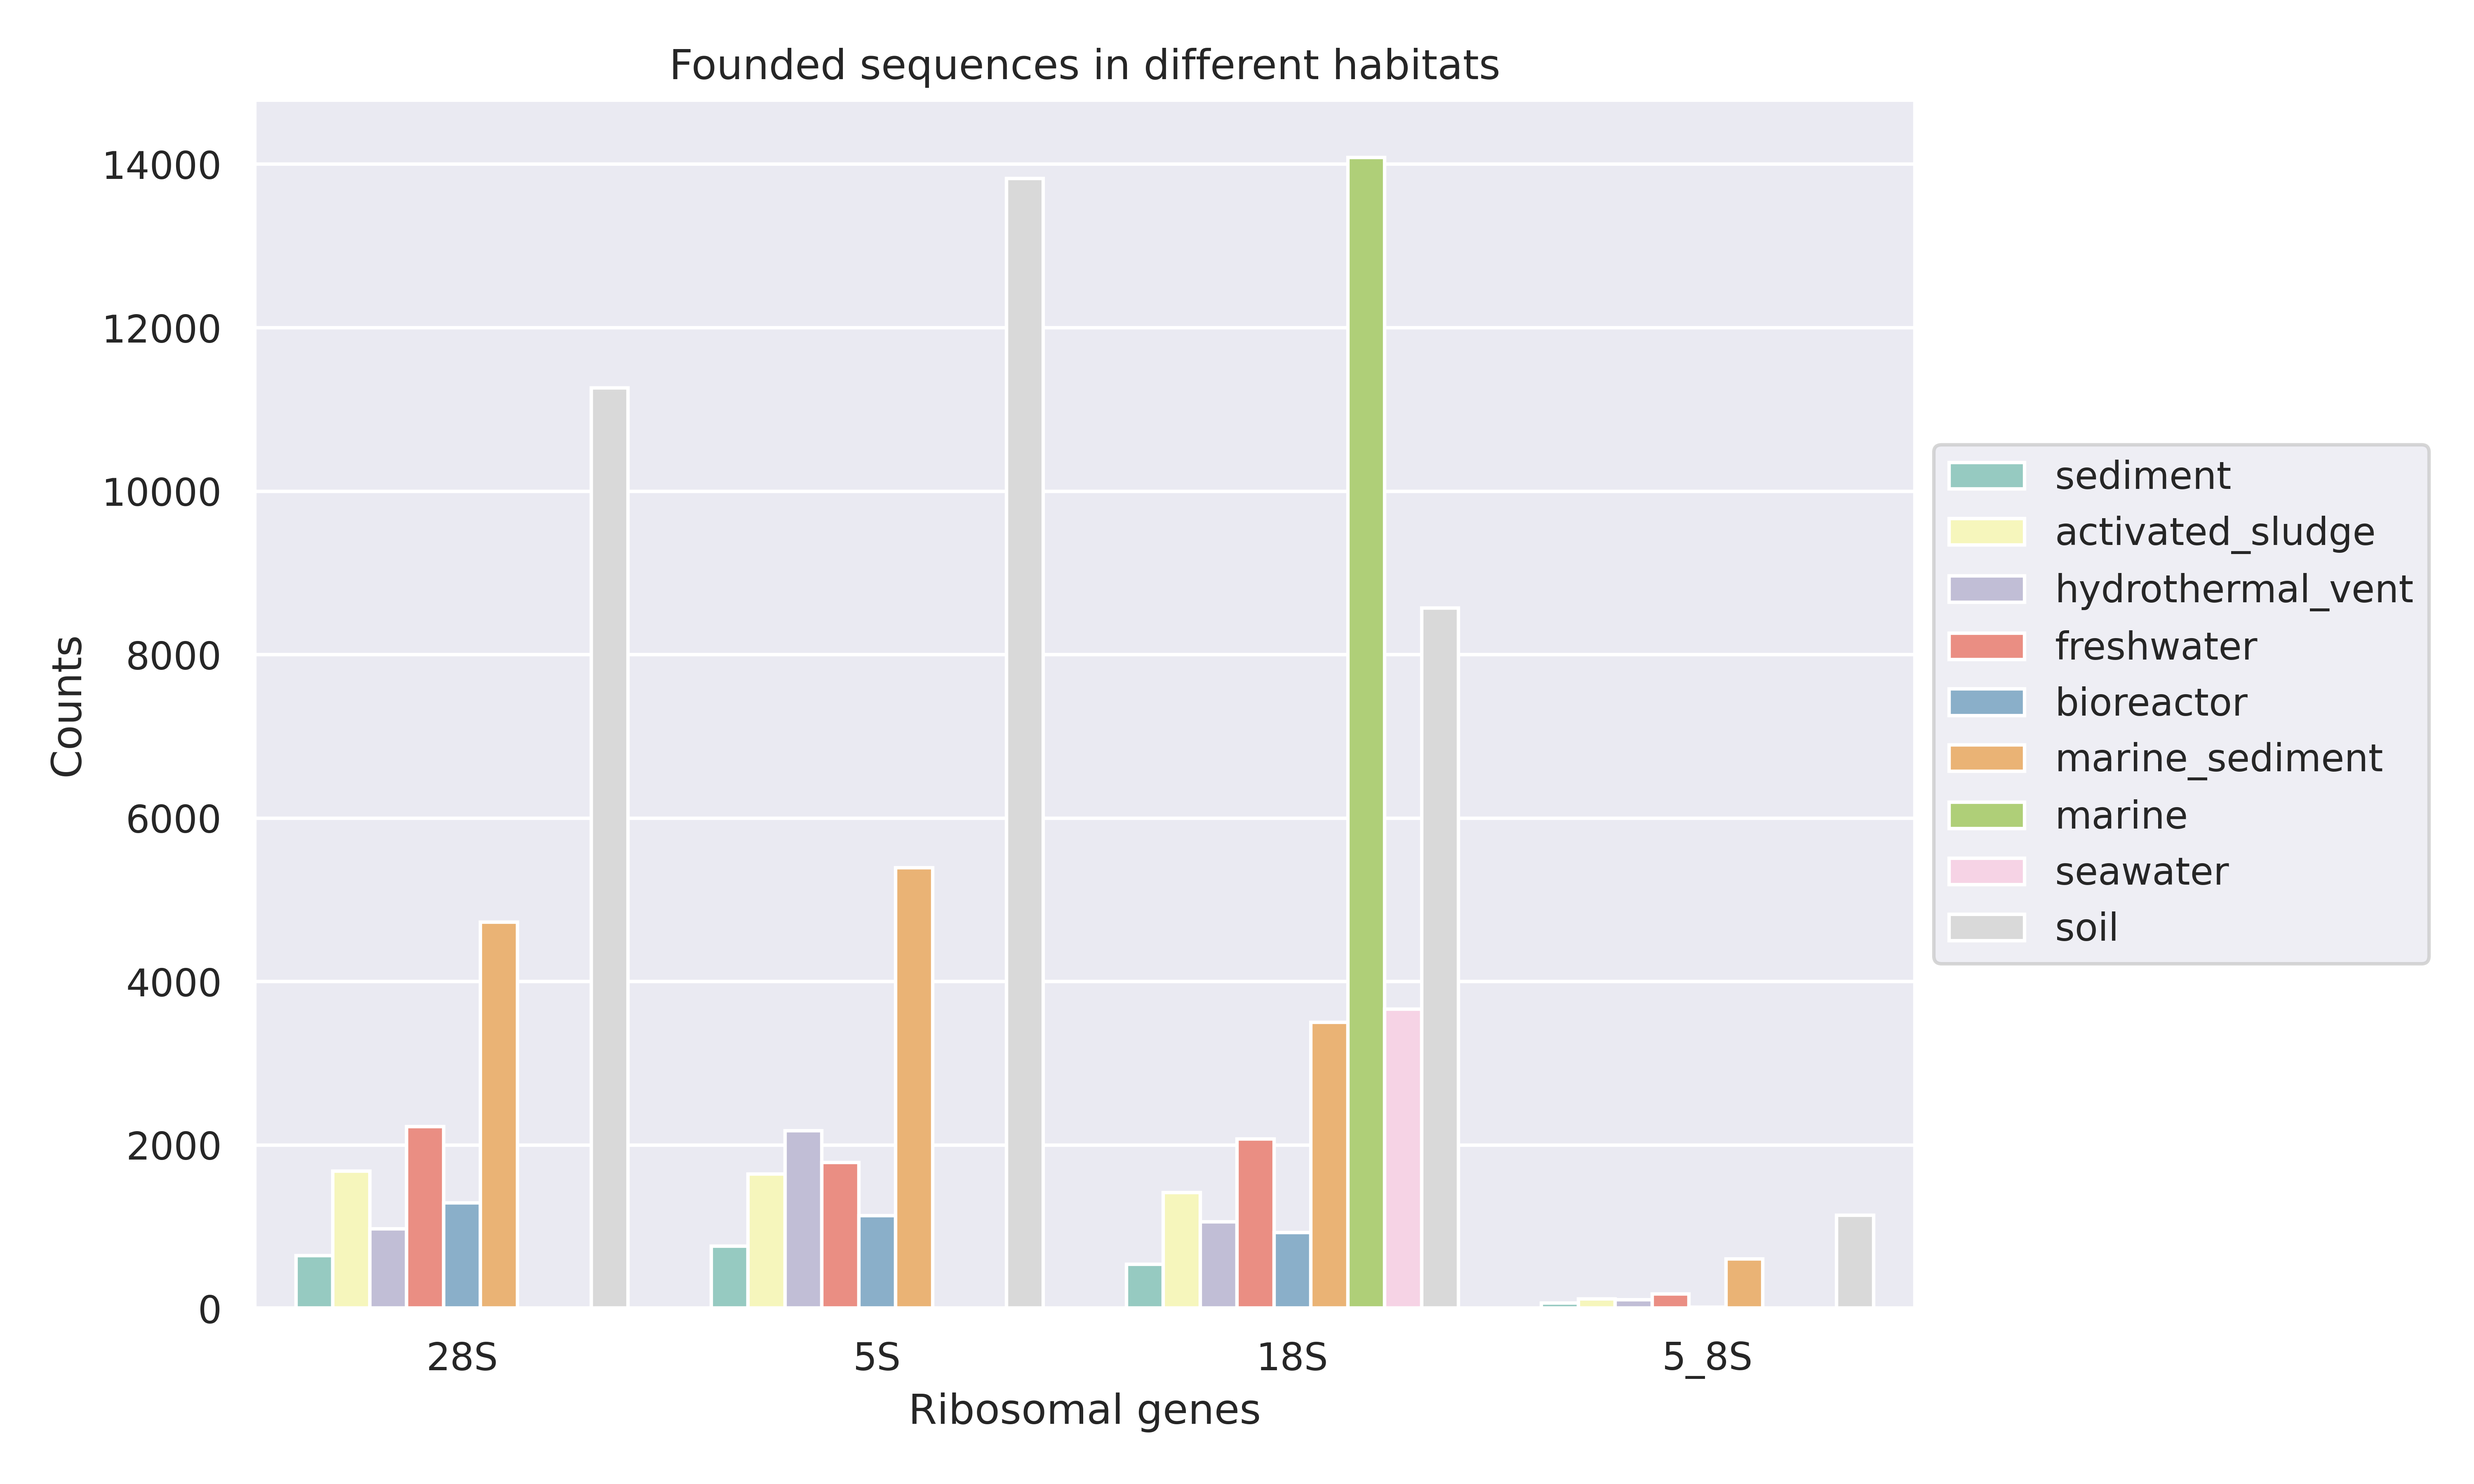
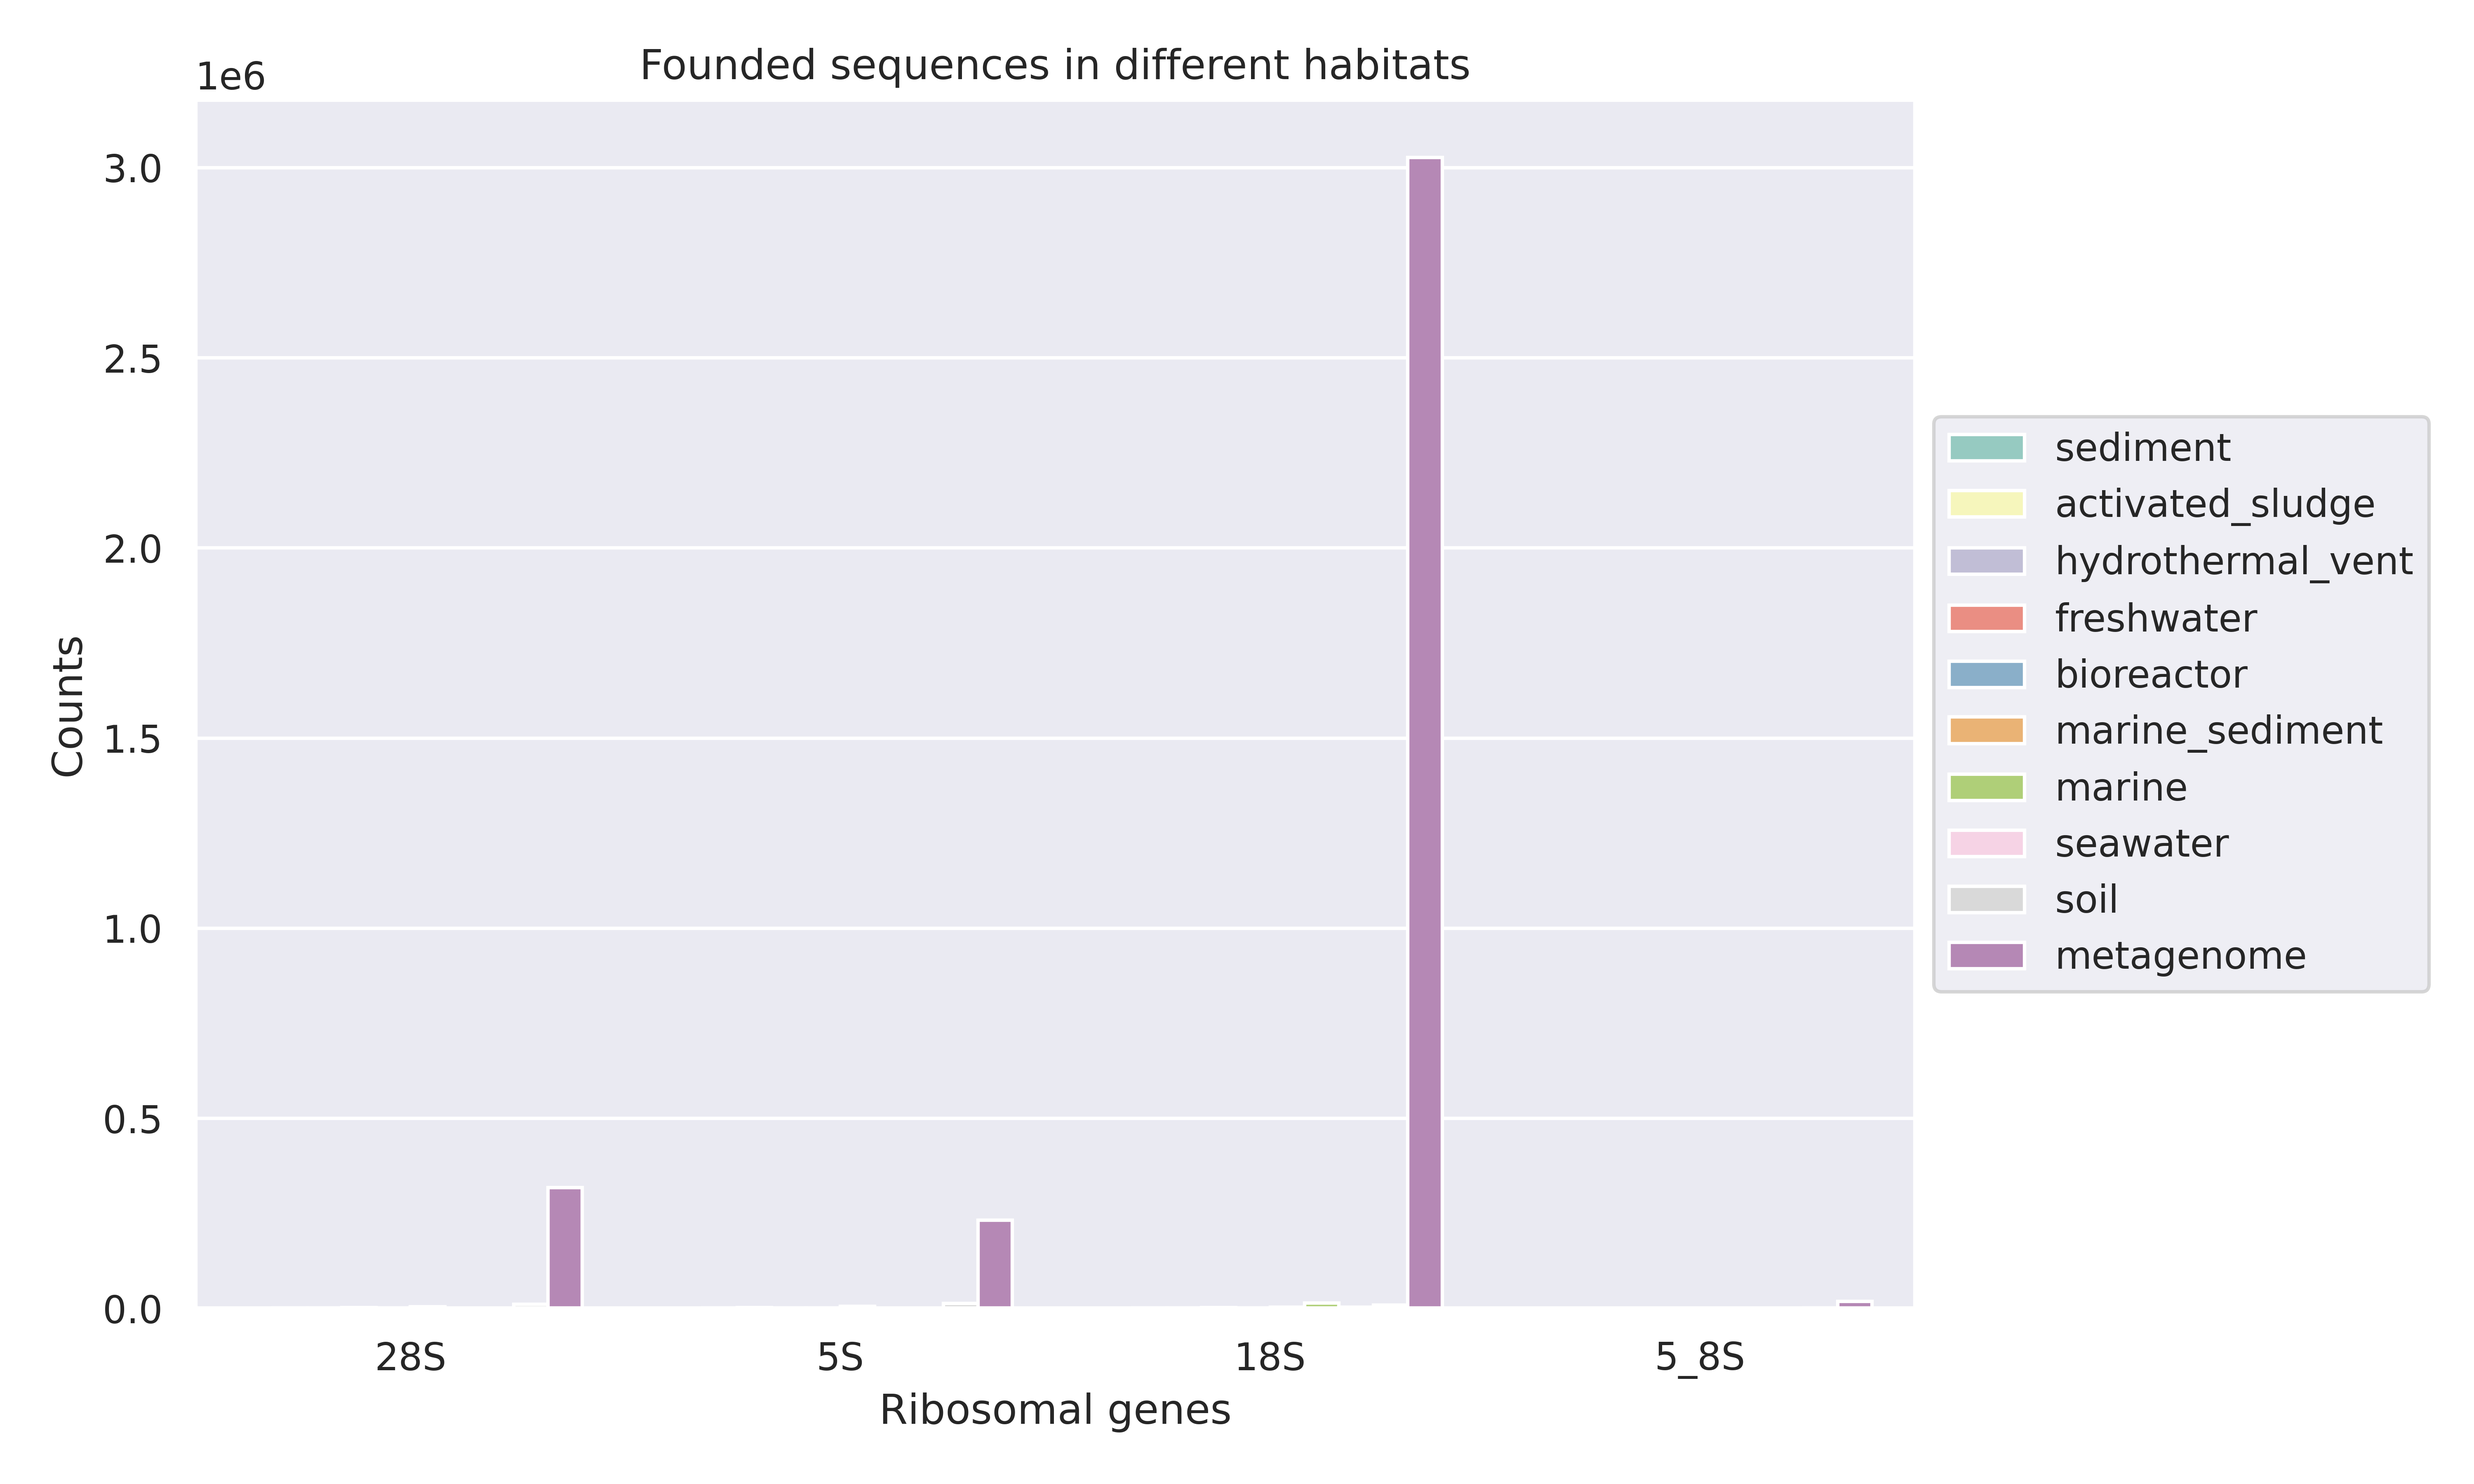
upd metagenome figure

diff --git a/src/countplot.py b/src/countplot.py
@@ -8,7 +8,7 @@ height=6
 plt.figure(figsize=(width,height))
 
 df = pd.read_csv('/home/yulia/micrometa/metadata/habitat_data.tsv', sep='\t')
-df = df[df.habitat != 'metagenome']
+#df = df[df.habitat != 'metagenome']
 
 sns.countplot(x='type', hue='habitat', data=df, palette="Set3")
 plt.title('Founded sequences in different habitats')
